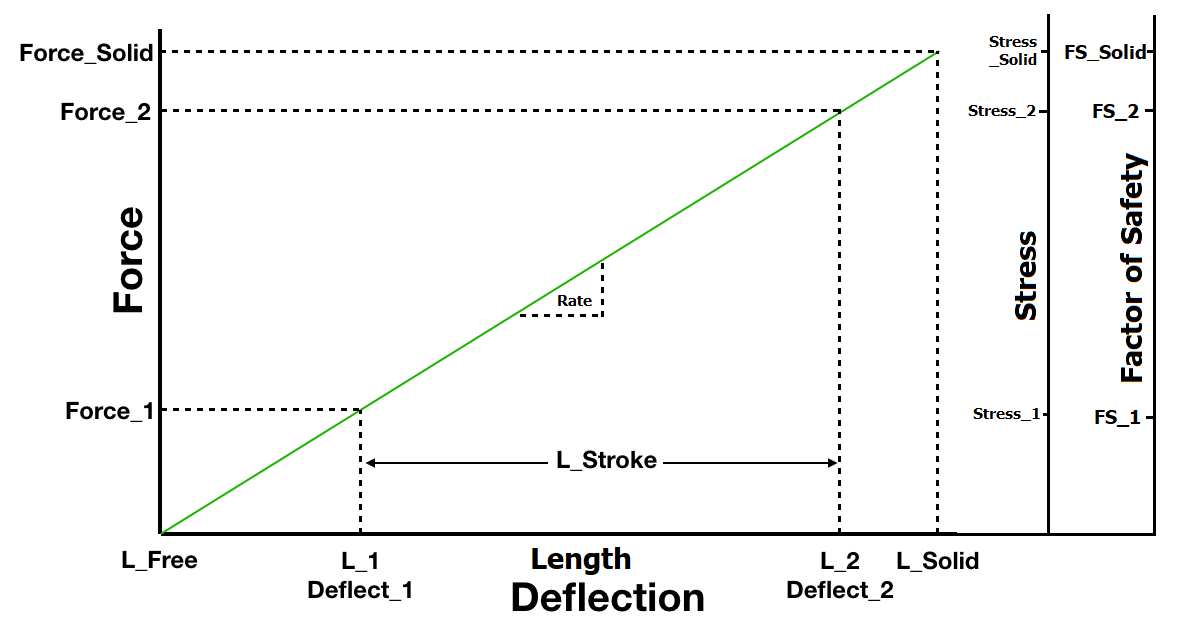
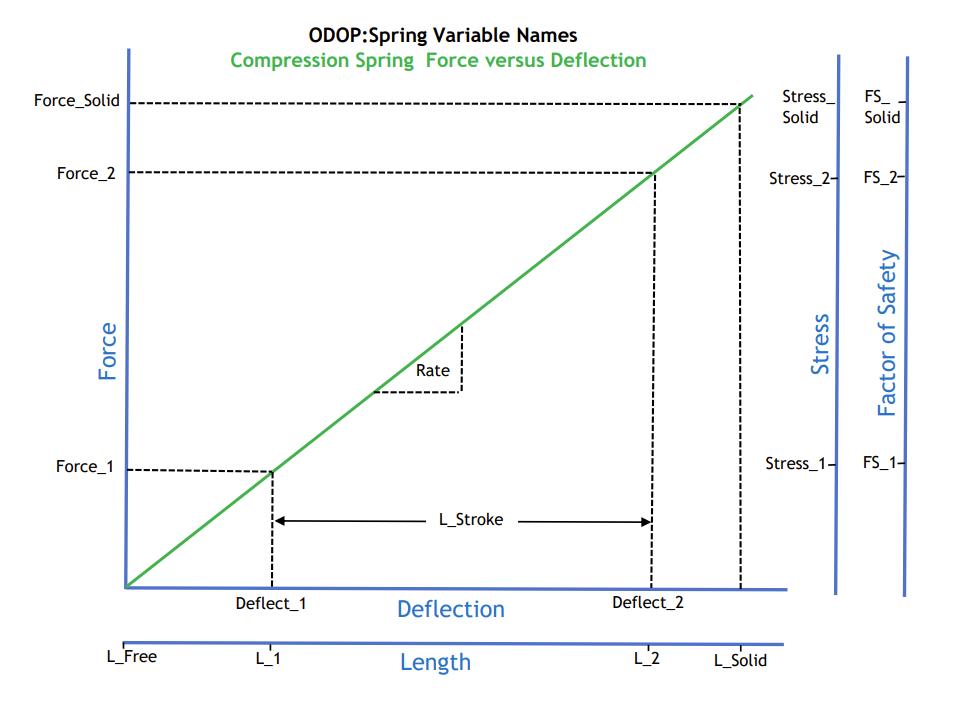
561  Doc Improvements for version 4.0.4
All-new diagram.  Word polishing.

diff --git a/docs/Help/terminology.md b/docs/Help/terminology.md
@@ -289,14 +289,19 @@ ___
 ___
 
 **SEARCH**    
+Search (<b>Action : Search</b> menu item) is used to find a feasible design.
+
 The [Search](search) algorithm manipulates the values of independent variables 
-so as to determine a minimum value of the objective function. 
-For more detail, see the [OBJECTIVE FUNCTION](terminology#obj) entry above.
-The objective function is constructed such that 
-(within the limits of the physical reality represented by the design equations)
-constraints and dependent variable FIX violations will be minimized in the process.
-Thus, the solution provided by the Search will represent a solution to the 
-designer's goals as expressed by constraints and FIXes.
+so as to minimize the Objective Value. 
+Because the [OBJECTIVE FUNCTION](terminology#obj) is constructed as a sum of 
+constraint and dependent variable FIX violations, 
+minimizing the Objective Value will minimize violations and 
+thus move in the direction of a feasible design.
+The solution provided by  Search represents the best available solution to the 
+designer's goals as expressed by constraints and FIXes. 
+If a solution that meets all of these goals, is not available, 
+the search process converges to a compromise.
+Typically, this compromise violates multiple constraints.
 
 While the ODOP software is modular and can potentially support multiple numerical search algorithms, 
 the current ODOP software release supplies only one such numerical search algorithm.
@@ -350,13 +355,13 @@ ___
 
 **SPRING DESIGN VARIABLE NAMES**   
 
-See:
+[Variable names illustrated on compression spring Force-Deflection diagram:](png/ForceVsDeflection.png)
+
+See also:
  - [Terms including "Factor of Safety" common to all spring types](SpringDesign/spring_oview) 
  - [Compression spring](DesignTypes/c_spring) 
  - [Extension spring](DesignTypes/e_spring) 
  - [Torsion spring](DesignTypes/t_spring) 
-
-[Variable names illustrated on compression spring Force-Deflection diagram:](png/ForceVsDeflection.png)
 
 
 ___
